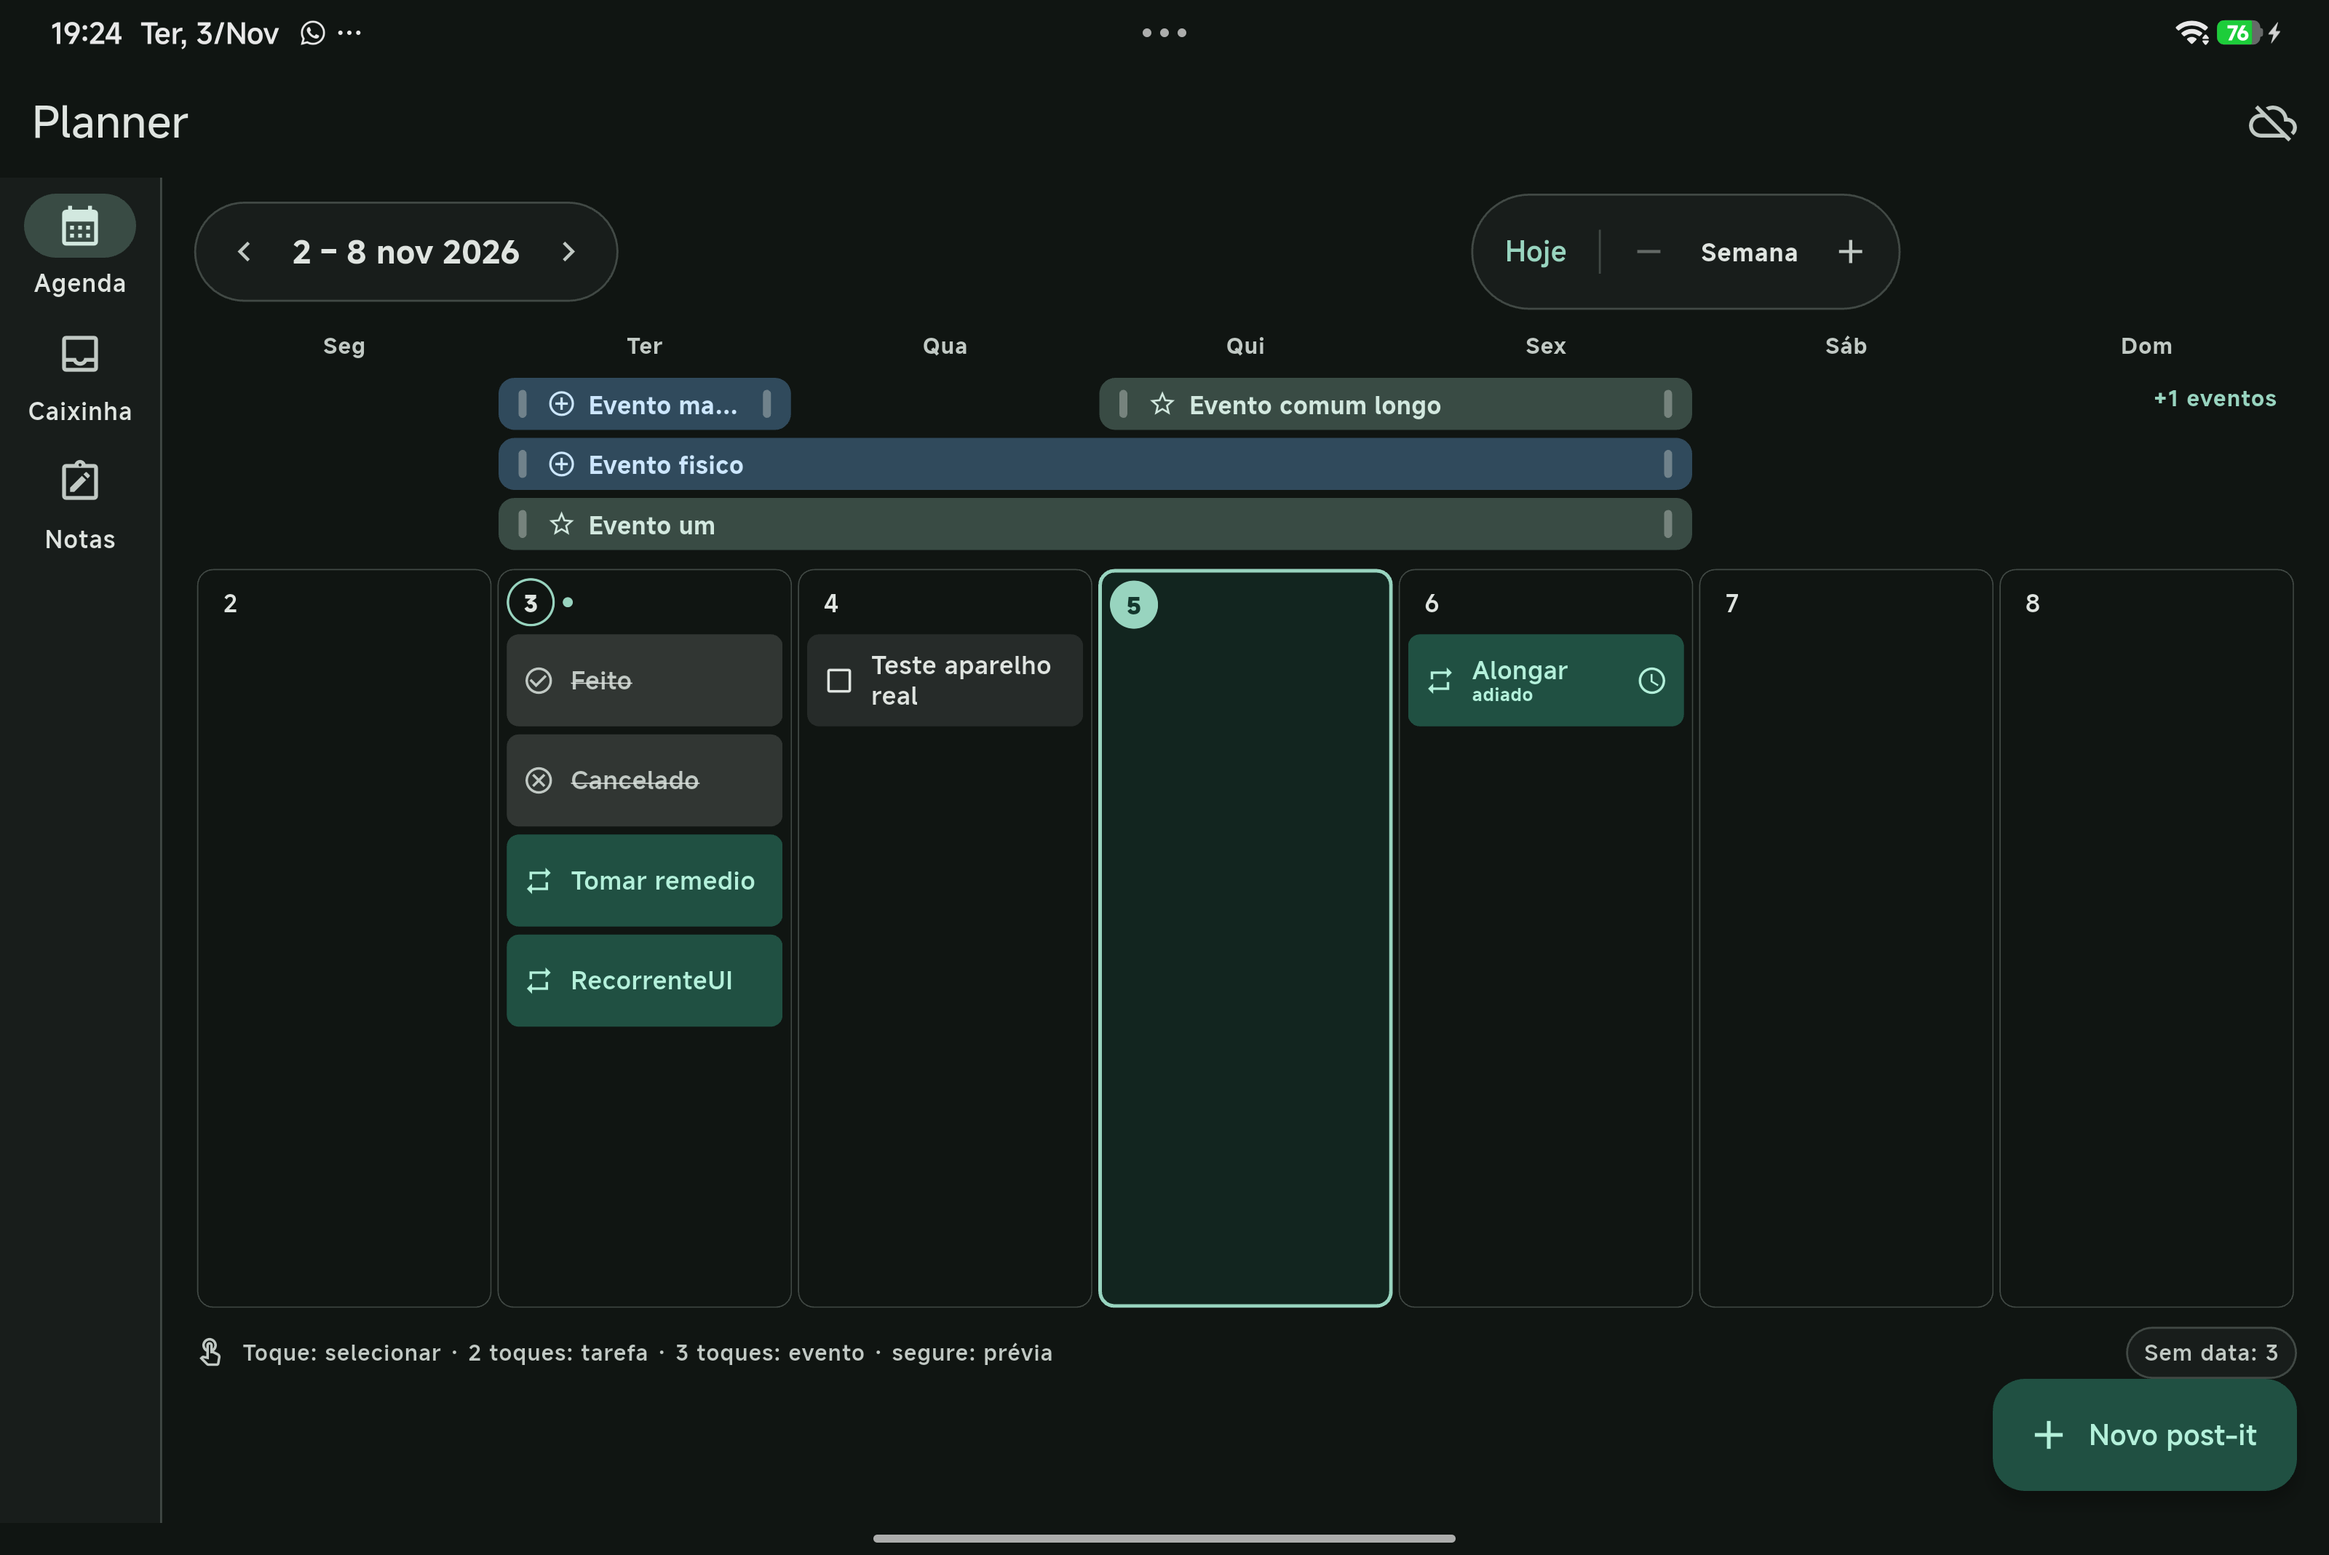
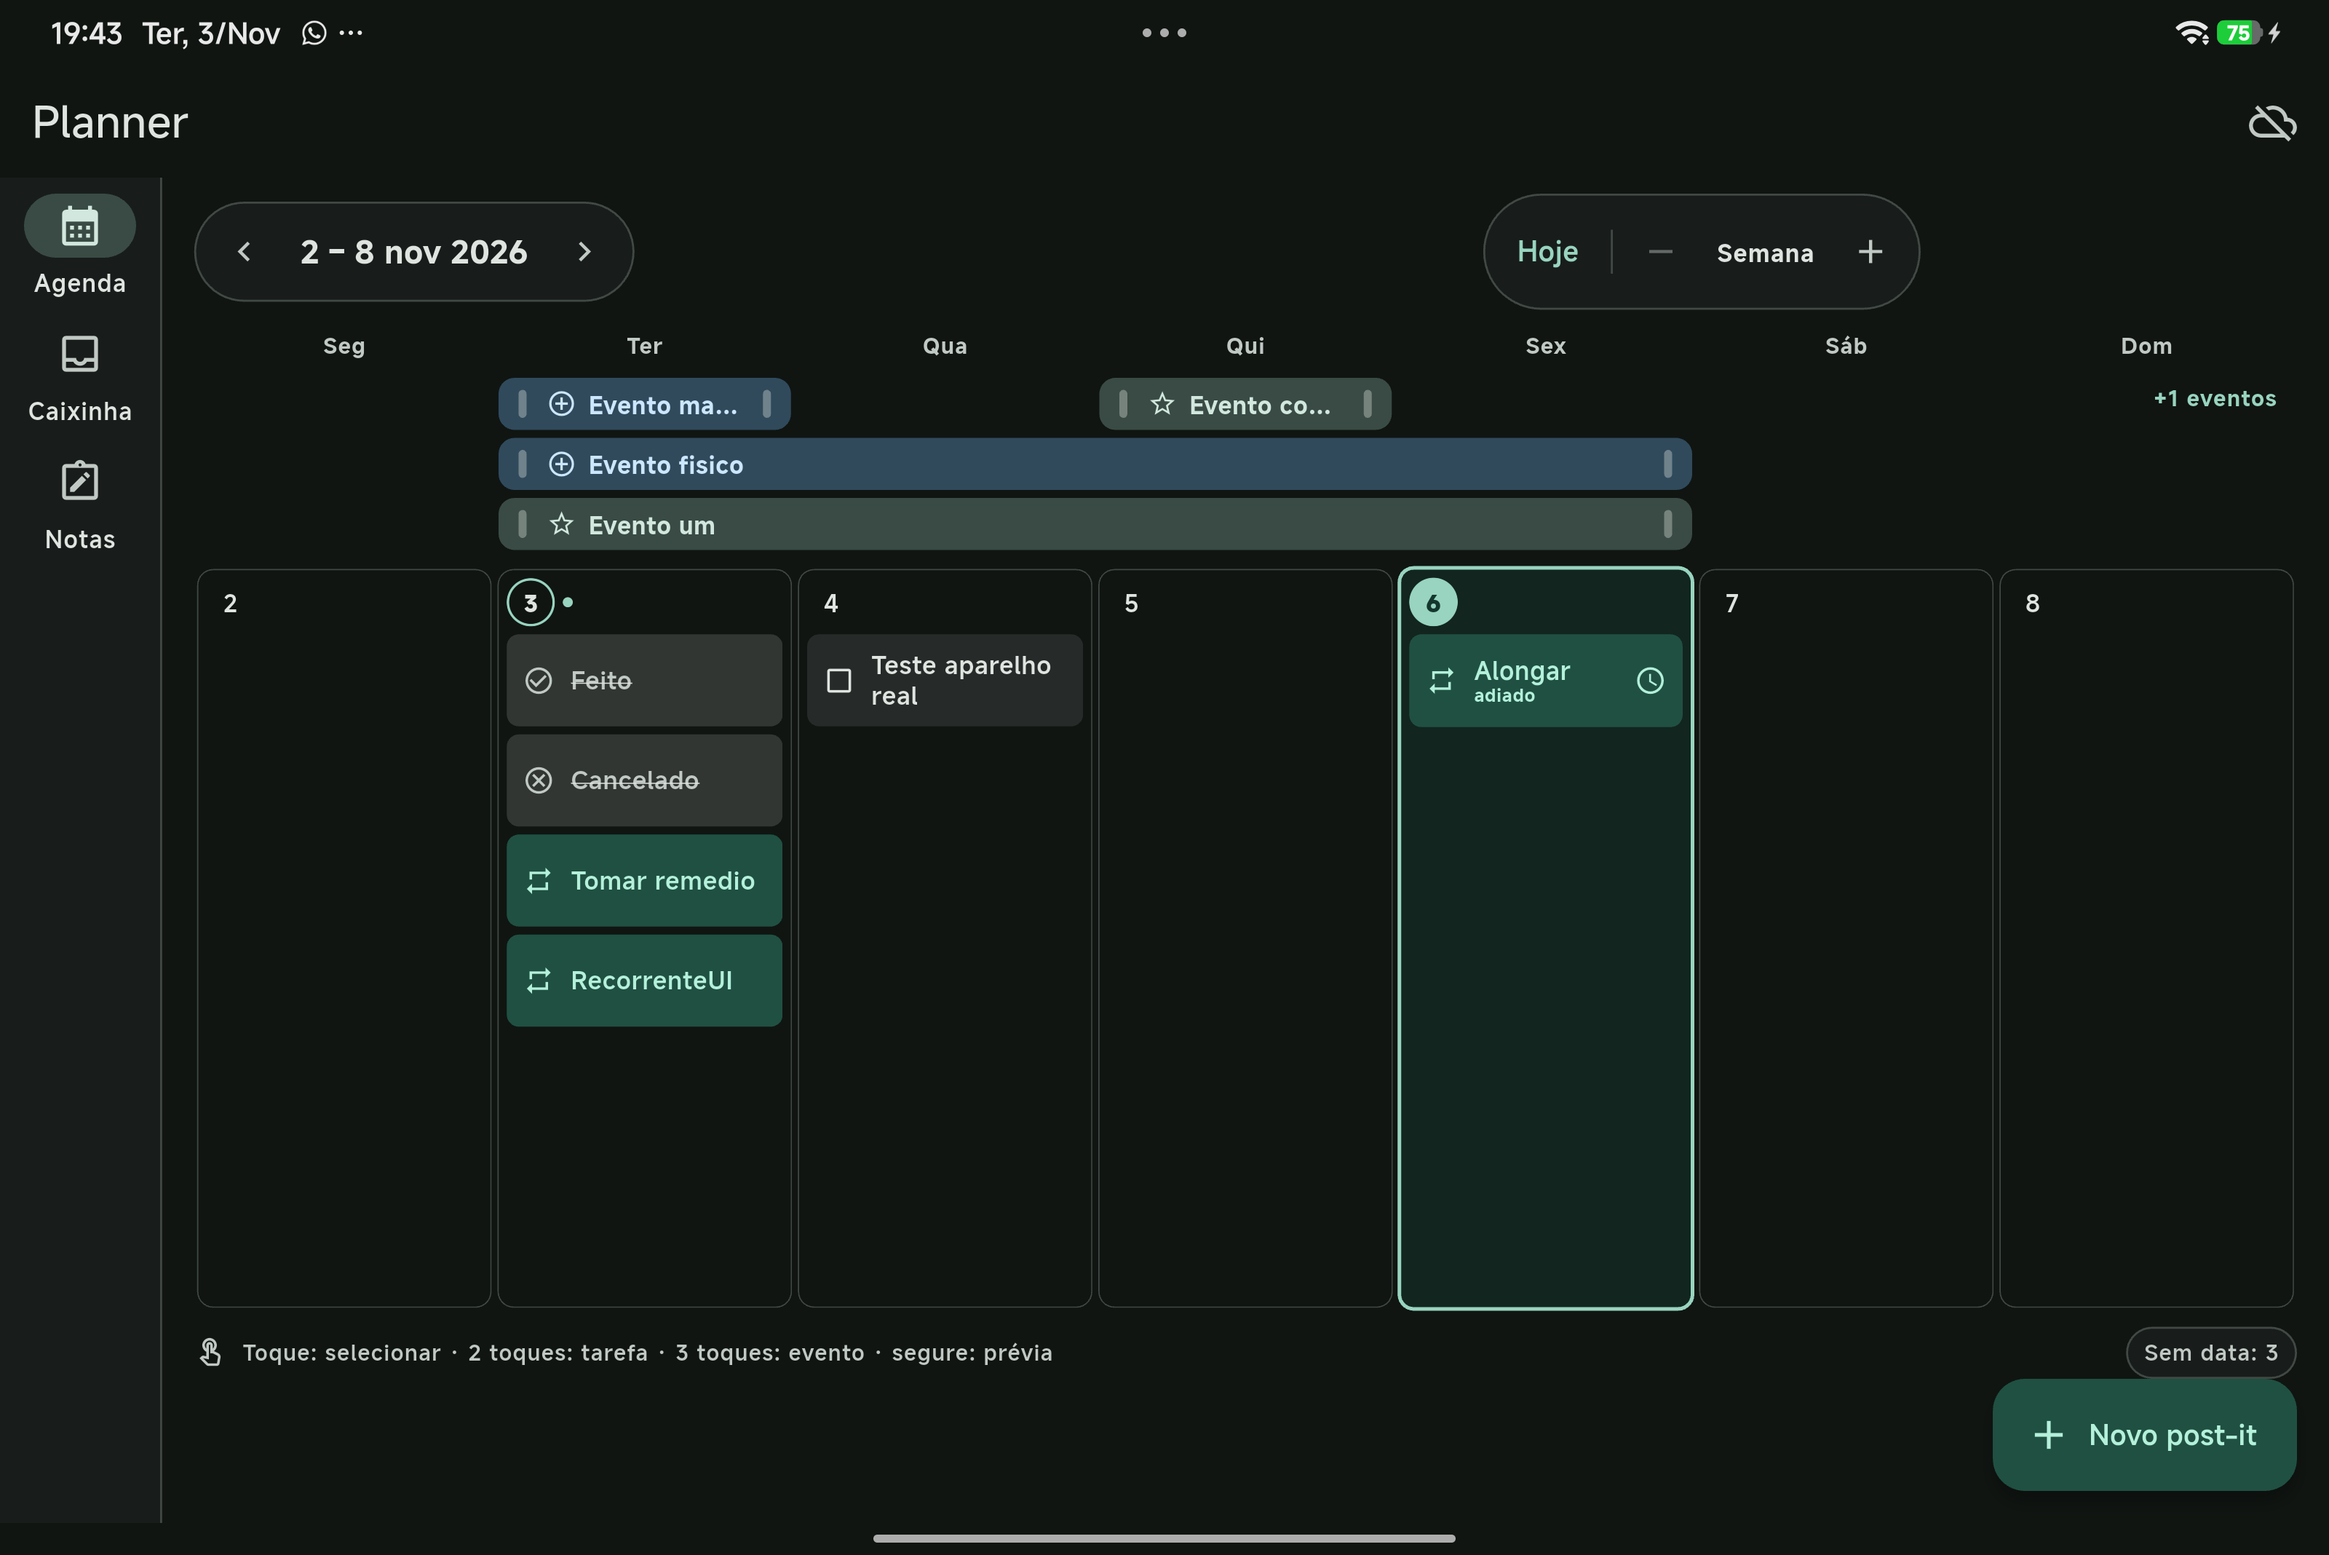
docs: record agenda animations

diff --git a/docs/PROGRESSO.md b/docs/PROGRESSO.md
@@ -839,3 +839,25 @@ avaliação.
 - O ajuste de margens cobre os espaçamentos principais; a grade mantém um
   gutter óptico de 1,5 px entre células para não perder densidade no mês.
 - Permanecem as limitações anteriores de notas, links e vínculos.
+
+## Animações da agenda (2026-11-03)
+
+### Implementado
+
+- Seleção de dia anima cor, borda e uma escala sutil (160 ms, `easeOut`).
+- Célula sob arraste cresce levemente e o alvo de soltura ganha borda animada.
+- Cartões de post-it e barras de evento encolhem levemente ao toque (100 ms).
+- Feedback de arraste entra com escala (180 ms, `easeOutBack`); o cartão de
+  origem desbota em 160 ms.
+- Prévia de redimensionamento e botão “+N eventos” entram com fade/scale.
+- Rótulo do período faz cross-fade e o rótulo do modo usa fade + scale.
+- Ao trocar período ou modo, a grade faz cross-fade de 180 ms; atualizações de
+  dados no mesmo período continuam instantâneas.
+
+### Limitações
+
+- O redimensionamento contínuo segue o dedo sem animação para não introduzir
+  atraso; só o selo de prévia é animado.
+- Não há preferência explícita de “reduzir movimento”; as animações são curtas
+  e não bloqueiam a interação.
+- Animações não alteram dados, persistência ou regras de negócio.

diff --git a/docs/DECISOES.md b/docs/DECISOES.md
@@ -225,6 +225,11 @@ etapas. Cada item: contexto, decisão, consequência.
   espaçamentos principais em múltiplos de 8 px e ajustes finos em múltiplos de
   4 px. A grade mantém gutter óptico de 1,5 px entre células para preservar a
   densidade do mês.
+- **Movimento:** transições curtas (100–180 ms). Seleção e alvo de arraste usam
+  escala/cor; cartões e barras reagem ao toque; feedback de arraste usa
+  `easeOutBack`; período/modo e grade fazem cross-fade. Redimensionamento
+  contínuo não é animado para não atrasar o dedo. Ainda não há preferência de
+  reduzir movimento.
 - No mês compacto, o padding interno da célula é reduzido para preservar ao
   menos uma tarefa visível junto do indicador de overflow.
 - A data selecionada é a âncora. Anterior/próximo move a seleção em um

diff --git a/README.md b/README.md
@@ -159,6 +159,9 @@ não importa Flutter nem drift.
   arraste após 200 ms; as alças mantêm área de toque de 24×24 dp lógicos.
 - **Bordas:** o app usa edge-to-edge, com barras de sistema transparentes e
   fundo cobrindo a área útil.
+- **Animações:** seleção de dia animada, cartões/barras reagem ao toque,
+  feedback de arraste com escala, badges com fade/scale e cross-fade ao trocar
+  período ou modo. O redimensionamento contínuo segue o dedo sem atraso.
 
 ## Notas privadas
 
